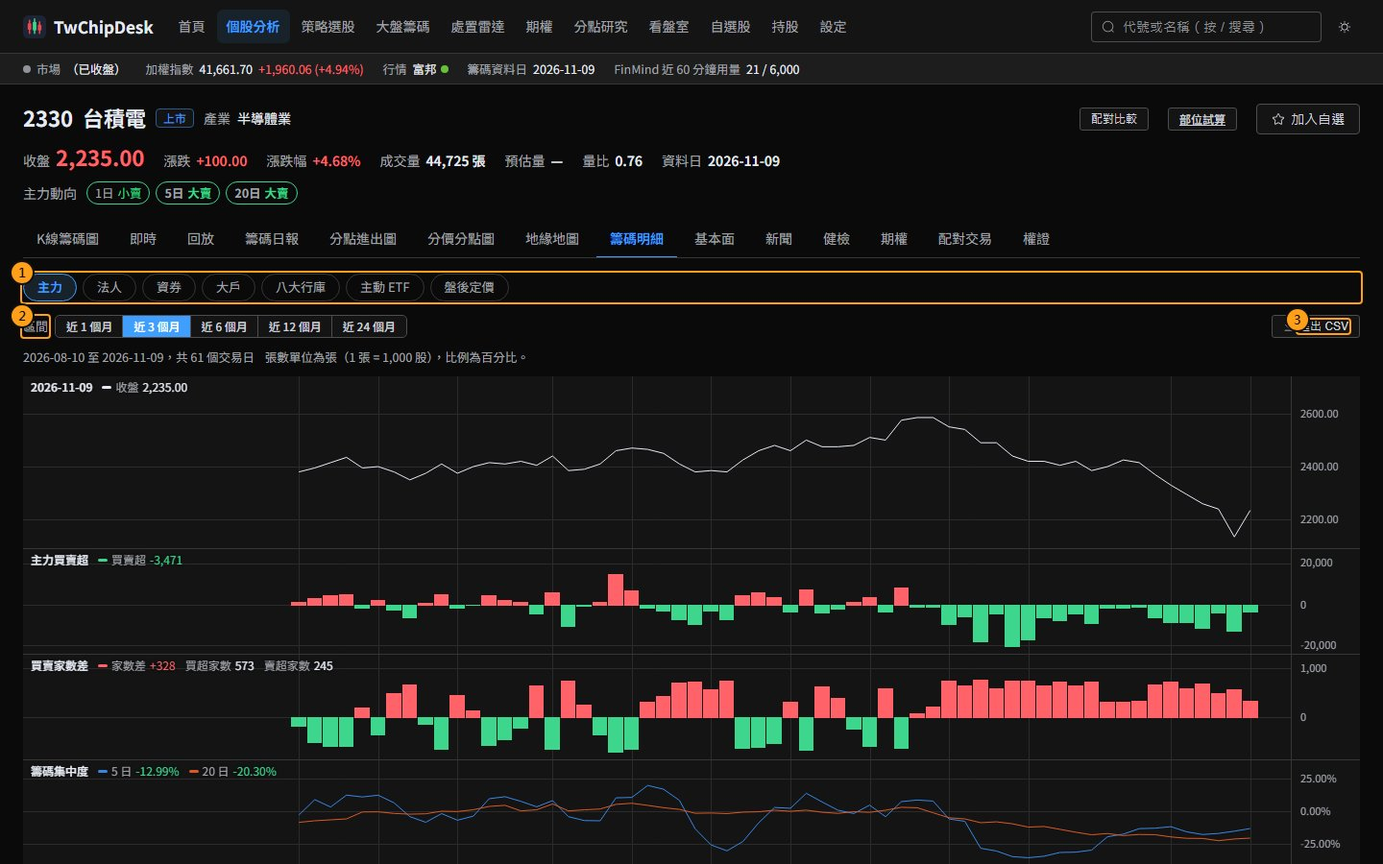
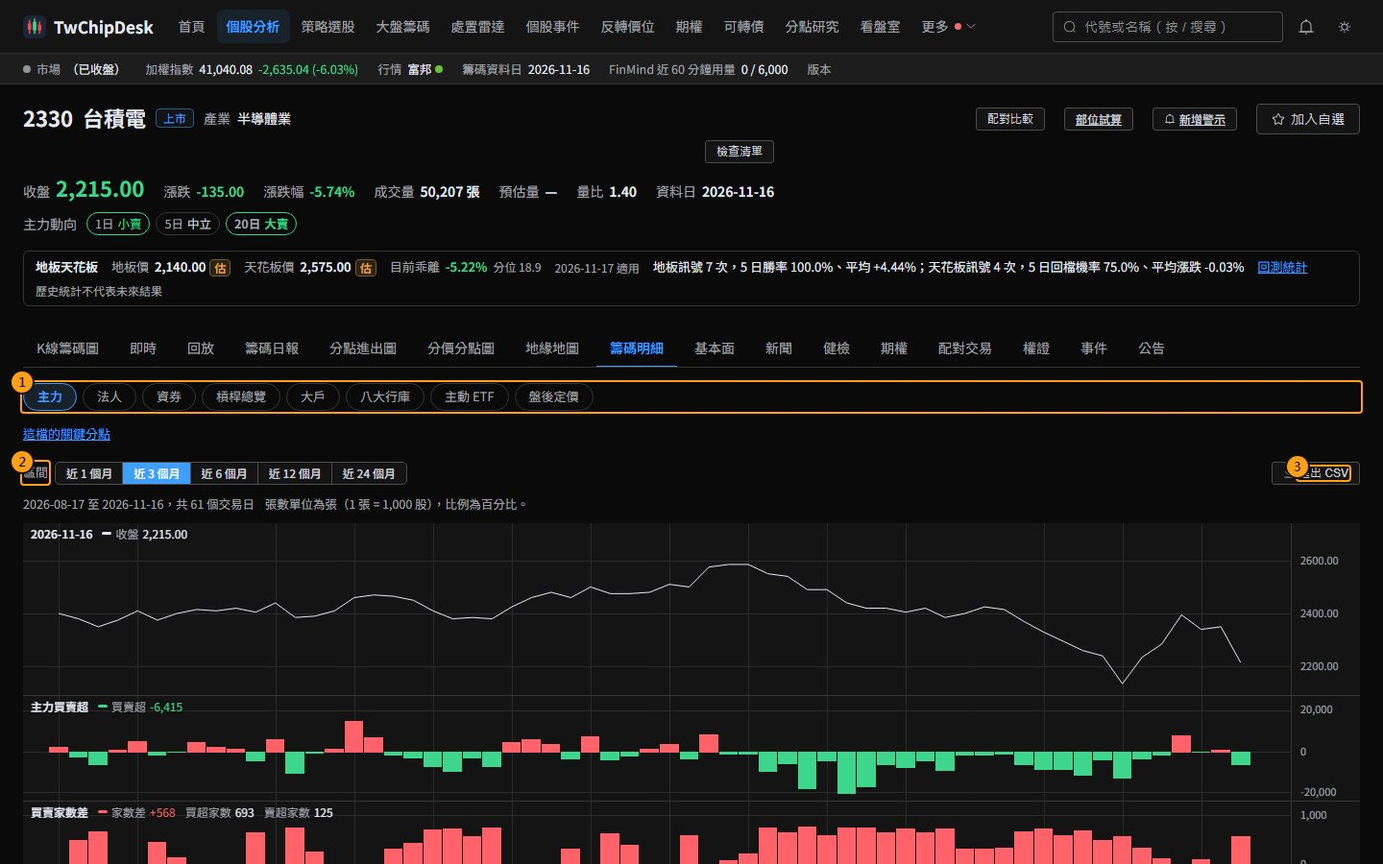
手冊同步：月營收季與年檢視、最近看過、記住篩選、現成資料五項與相關截圖

diff --git a/docs/stock/detail.md b/docs/stock/detail.md
@@ -19,9 +19,9 @@
 圖表上方第一列是收盤價，下面依子分頁畫出各項數字；滑鼠移到圖上查看當天數值。圖表右下角的按鈕與 Alt + R 可重設圖表視圖。
 
 ## 各子分頁內容
-- **主力**：主力買賣超、買賣家數差（買超分點數、賣超分點數）、籌碼集中度（5 日、20 日）、散戶買賣超、中實戶買賣超；下方另有「鉅額交易（分點資料不含）」區塊，列出區間內的鉅額成交與分點。
+- **主力**：主力買賣超、買賣家數差（買超分點數、賣超分點數）、籌碼集中度（5 日、20 日）、散戶買賣超、中實戶買賣超；下方另有「鉅額交易（分點資料不含）」區塊，列出區間內的鉅額成交與分點。上方的「這檔的關鍵分點」開啟[分點研究｜關鍵分點](../brokers/key.md)並只列這檔股票。
 - **法人**：外資、投信、自營商（自行買賣、避險、合計、避險比、避險淨買占比）的買入、售出、買賣超，三大法人合計、外資持股比例，以及外資、投信、自營商的連買連賣天數。
-- **資券**：融資、融券的「買進」「賣出」「現償」、餘額、增減、使用率，券資比、資券互抵、「借券賣出」、當沖量與當沖比、融資維持率；另有借券成交（張數與費率）、不限用途借貸、證券商有價證券融資、當沖券差借券等延伸資料。
+- **資券**：融資、融券的「買進」「賣出」「現償」、餘額、增減、使用率，券資比、資券互抵、「借券賣出」、當沖量與當沖比、融資維持率；另有借券成交（張數與費率）、不限用途借貸、「證金擔保放款」（餘額、增減、「次日限額」，緊接在不限用途借貸之後）、證券商有價證券融資、當沖券差借券等延伸資料。表格下方是「借券成交明細」，見下方「借券成交明細」一節。
 - **槓桿總覽**：融資、融券、借券賣、當沖、股票期貨、權證（估）與券源各一張卡，見下方「槓桿總覽」一節。
 - **大戶**：每週一筆。大戶（門檻以上）、散戶（門檻以下）的持股比例、週變化與人數，總股東人數與平均持股張數。可切換「大戶門檻」「散戶門檻」，開啟「顯示各級距人數與持股比例」看各級距明細。
 - **八大行庫**：各行庫的買賣超與合計、合計金額。
@@ -78,12 +78,19 @@
 
 沒有資料與關閉時：
 - 某個區塊沒有資料時卡片顯示「沒有資料」；整頁都沒有資料時顯示「這檔股票沒有資券、借券、期貨或權證資料」。
-- 期權模組關閉時「股票期貨」卡、權證功能關閉時「權證（估）」卡顯示「此功能已關閉」，其他卡片照常。
+- 期權模組關閉時「股票期貨」卡、權證功能關閉時「權證（估）」卡顯示「此功能已關閉」，並寫出要開啟的開關（設定頁「期權」區塊的 Derivatives:Enabled、「籌碼參數」區塊的 Warrant:Enabled），「前往設定」直接跳到該區塊；其他卡片照常。
 - 這個子分頁不匯出 CSV；逐日數字可在「資券」子分頁匯出。
 
 ![籌碼明細（槓桿總覽，手機）](../images/stock/detail-leverage-mobile.jpg)
 
 手機上卡片排成一欄，每張卡的指標以名稱與數值兩欄排列，股票期貨的商品改成每個商品一小段，不需要左右捲動。
+
+### 借券成交明細
+「資券」子分頁表格下方的「借券成交明細」：
+
+- **「未來 60 天到期張數（估）」**：把借券成交依成交時約定的「原始還券日」依週（週一起）加總，只算還券日在今天之後、60 天以內的成交，每週一條橫條（最長的一週為滿格）。只是約定的日期，實際可能提前還券或被出借人召回，續借、轉借也看不到，所以標「估」，不等於實際的還券量。下方寫明涵蓋比例：近 400 天的借券成交中，有幾筆有原始還券日（來源沒有這個欄位的成交不計入到期分布）。
+- **借券成交表**：區間內每一筆借券成交，由新到舊：日期、「成交方式」（議借、競價、定價，照來源原文）、「張數」、「費率（%）」、「原始還券日」、「借券天數」（成交時約定的天數）。來源沒有原始還券日或借券天數時顯示「—」。區間內超過 1,000 筆時只列最近 1,000 筆並註明。
+- 「匯出 CSV」只匯出上方的資券表，不含這張表。
 
 ## 操作步驟
 1. 點子分頁切換資料類別。
@@ -97,12 +104,14 @@
 - **扣除申贖（估）**：主動 ETF 持股增減扣掉申購買回造成的部分，是估計值；無法估計申贖比例的 ETF 不列入合計並註明。
 - **股數事件**：比較期間內有分割、反分割、面額變更、配股或減資的日子，增減含這些事件造成的股數變動（未換算）。
 - **當沖券差借券費率**：同一天有多個費率級距時以股數加權平均。
+- **證金擔保放款**：證券金融事業以有價證券為擔保的放款（FinMind 的借貸與擔保品餘額資料集）；「餘額」「增減」「次日限額」的單位是張，與不限用途借貸同一個來源與更新時間。當天全市場已有資料但這檔沒有列時為 0，還沒有資料時為「—」。
 
 ## 注意事項與限制
 - 法人、資券在每個交易日盤後更新；股權分散每週更新一次。剛開始回補時可能還沒有資料，回補進度可在「資料狀態」頁查看。
 - 八大行庫尚未發布或沒有回補的日子顯示「—」。
 - 槓桿總覽的各區塊更新時間不同，請以每張卡右上角的資料日為準。
 - 主動 ETF 持股資料從 2025-05-05 起；功能關閉時顯示說明，可在設定頁「籌碼參數」開啟。不是上市櫃股票時沒有主動 ETF 資料。
+- 同一個資料集另有「交割款項融資」，但目前所有股票的餘額都是 0，所以不顯示；槓桿總覽的「不限用途借貸」只列不限用途借貸一類，沒有把各類借貸加總。
 
 ## 相關功能
 - [K線籌碼圖](kline.md)

diff --git a/docs/stock/README.md b/docs/stock/README.md
@@ -12,7 +12,7 @@
 
 | 編號 | 名稱 | 說明 |
 |---|---|---|
-| 1 | 搜尋框 | 輸入股票或分點的代號、名稱，下拉清單分「股票」「分點」兩組。按 `/` 可直接把游標移到搜尋框；上下鍵選擇、Enter 進入、Esc 關閉。 |
+| 1 | 搜尋框 | 輸入股票或分點的代號、名稱，下拉清單分「股票」「分點」兩組。按 `/` 可直接把游標移到搜尋框；上下鍵選擇、Enter 進入、Esc 關閉。還沒輸入文字時列出「最近看過」的股票（最多 10 檔，新的在前），最後一列「清除紀錄」。 |
 | 2 | 代號與名稱 | 目前的股票。已下市的股票另外標「已下市（日期）」或「已下市或停止交易」。 |
 | 3 | 市場 | 「上市」「上櫃」「興櫃」；ETF 等非普通股另外標類型。 |
 | 4 | 產業 | 官方產業分類。 |
@@ -35,6 +35,7 @@
 
 其他進入方式：
 - 點頂部選單「個股分析」會開啟最後瀏覽的那一檔。
+- 點搜尋框但先不輸入文字，會列出「最近看過」的股票（最多 10 檔），點選或用上下鍵加 Enter 進入；紀錄只存在這台電腦的瀏覽器，手機和電腦各自記錄，選最後一列「清除紀錄」可以清空。
 - 各頁的股票代號或名稱大多可以點，點了會進入個股頁。
 - 左側自選欄點股票，同樣保留目前的分頁。
 
@@ -47,7 +48,7 @@
 3. 清單下方可以輸入名稱建立新群組，建立後這檔會一起加入。
 
 ### 處置徽章
-股票正在處置、即將處置或可能被處置時，產業旁邊會出現處置徽章，例如「處置中 7/7」（第 7 天，共 7 天）、「明天起處置」「今晚處置」「明日處置 x% 估」或「注意 n 次」。沒有任何狀態時不顯示。點徽章會從右側打開處置面板，列出注意與處置的計數、觸發價與歷次紀錄（說明見[處置雷達](../disposition/README.md)）。
+股票正在處置、即將處置或可能被處置時，產業旁邊會出現處置徽章，例如「處置中 7/7」（第 7 天，共 7 天）、「明天起處置」「今晚處置」「明日處置 x% 估」或「注意 n 次」。沒有任何狀態時不顯示。點徽章會從右側打開處置面板，列出注意與處置的計數、觸發價與歷次紀錄（說明見[處置雷達](../disposition/README.md)）；面板最下方的「這檔的處置統計」開啟[處置統計](../disposition/stats.md)的個股模式。
 
 ![處置徽章](../images/stock/stock-disposition-badge.jpg)
 
@@ -87,7 +88,7 @@
 | –「沒有資料」 | 這檔股票沒有這項資料（例如沒有融資融券、沒有發行股數），不是「未成立」。 |
 | ⊘「來源未開啟」 | 法說會與股東會需要設定頁「補充來源」區塊的「官方開放資料事件來源」，關閉時這兩項寫「官方開放資料來源未開啟，可在設定頁的『補充來源』開啟」。處置雷達關閉時，處置與注意兩項也是「來源未開啟」。 |
 
-- **內容**：期間或事件日、「n 日後」；資券與流動性類同時列出數值（百分比與「資券」子分頁同樣兩位小數）、固定門檻與「近一年分位」（這個數字在這檔股票近一年每天的數字中排第幾百分位；不足 20 天寫「資料不足」）。是否成立只看固定門檻（設定頁「檢查清單」區塊可改），分位只是參考。停券原因、法說會地點等官方原文照原樣列出。
+- **內容**：期間或事件日、「n 日後」；資券與流動性類同時列出數值（百分比與「資券」子分頁同樣兩位小數）、固定門檻與「近一年分位」（這個數字在這檔股票近一年每天的數字中排第幾百分位；不足 20 天寫「資料不足」）。是否成立只看固定門檻（設定頁「檢查清單」區塊可改），分位只是參考。停券原因、法說會地點等官方原文照原樣列出。股東會另列官方公告的「停止過戶 MM/DD～MM/DD」與「電子投票：」原文（來源沒有時不列；頁首標籤不列，只在清單裡）。
 - **資料日**：這一項資料所屬的日期，不會晚於判定日；事件日寫在內容裡。FinMind 的暫停交易、停券、除權息、減資類沒有抓取日，資料日寫「—」；法說會、股東會是公告日。資券類的資料日比預期舊時標「資料較舊」；處置雷達的資料停在更早的交易日時，處置與注意也標「資料較舊」，沒有成立的紀錄時寫「沒有資料」而不是「未成立」。
 - **來源**：「處置雷達」「FinMind」「官方開放資料」「本系統計算」。
 - **連結**：處置與注意打開處置面板；停止融券、暫停先賣後買當沖與資券類開啟[籌碼明細](detail.md)的「資券」子分頁；事件類開啟[事件](events.md)分頁；20 日均量開啟 [K線籌碼圖](kline.md)。

diff --git a/docs/stock/kline.md b/docs/stock/kline.md
@@ -23,7 +23,7 @@
 | 9 | 型態 | 技術型態（K 線型態、缺口、島狀反轉、圖形型態、指標背離）的開關。只在日 K。 |
 | 10 | 選取區間 | 按下後在主圖拖曳選起訖日，主力面板改算這段自訂區間。只在日 K。 |
 | 11 | 繪圖工具列 | 趨勢線、水平線、通道、斐波那契、測量、文字等繪圖工具。 |
-| 12 | 主圖浮動資訊列 | 十字線所在那一根的開高低收、漲跌、量、各均線與扣抵值；有事件或型態時列出名稱。 |
+| 12 | 主圖浮動資訊列 | 十字線所在那一根的開高低收、漲跌、量、「筆數」「每筆均張」（日、週、月 K）、各均線與扣抵值；有事件或型態時列出名稱。 |
 | 13 | 副圖 | 每個副圖左上角是名稱與十字線所在那一根的數值。 |
 | 14 | 主力面板 | 統計期間的主力摘要與前 15 名分點，見「主力面板」。 |
 
@@ -91,7 +91,7 @@
 
 | 群組 | 副圖 |
 |---|---|
-| 價量 | 成交量 |
+| 價量 | 成交量、每筆均張 |
 | 技術 | KD、MACD、RSI、乖離率 |
 | 主力 | 主力買賣超、買賣家數差、籌碼集中度（5 日、20 日、60 日）、散戶買賣超（估）、中實戶買賣超、籌碼峰獲利比例（估） |
 | 分點 | 地緣分點買賣超、隔日沖分點買超占比、分點買賣超、權證投資人約當淨買（估）、權證買超前 5 分點合計（估）、權證隔日沖買超（估） |
@@ -102,6 +102,7 @@
 | 期權 | 期現價差、權證投資人淨買（估） |
 
 - 選單裡標「尚未提供」的副圖（目前是「月營收與年增率」）目前不能加入。
+- 「每筆均張」副圖：一條線畫每根 K 棒的每筆均張，浮動資訊列另列「筆數」。週、月 K 是期間總量 ÷ 期間總筆數；這段期間有任一天沒有筆數時那一根留空。分 K 沒有成交筆數，不提供這個副圖。
 - 「期現價差」只在這檔有股票期貨時可用，其他股票標「這檔股票不適用」。
 - 「地緣分點買賣超」需要在設定頁啟用公司基本資料外掛，且公司有座標。
 - 加入「大戶持股比例」或「散戶持股比例」時，工具列多出「大戶門檻」「散戶門檻」選擇（大戶預設 400 張，可選 400、600、800、1,000 張；散戶預設 100 張）。門檻與籌碼明細的大戶分頁共用。
@@ -214,7 +215,7 @@
 3. 盤中每 15 秒更新最後幾根。
 4. 點「日」「週」「月」回到日資料。
 
-分 K 不適用：籌碼副圖（標「分 K 不適用」）、事件標記（含公告標記）、注意／處置、成本線、選取區間、扣抵、還原（一律原始價格）；主力面板仍為日資料。有跨過、還沒補上的交易日時，畫面下方會列出日期，圖上前後兩天直接相接，可按「補上這幾天」。FinMind 額度不足時會顯示預計恢復時間。
+分 K 不適用：籌碼副圖（標「分 K 不適用」）、「每筆均張」副圖與浮動資訊列的「筆數」「每筆均張」（分 K 沒有成交筆數）、事件標記（含公告標記）、注意／處置、成本線、選取區間、扣抵、還原（一律原始價格）；主力面板仍為日資料。有跨過、還沒補上的交易日時，畫面下方會列出日期，圖上前後兩天直接相接，可按「補上這幾天」。FinMind 額度不足時會顯示預計恢復時間。
 
 ### 主力面板
 ![主力面板](../images/stock/kline-mainforce.jpg)
@@ -249,6 +250,7 @@
 - **平均成本（估）**：各價位依占比加權的平均價位。
 - **90%／70% 成本區間（估）**：把籌碼依價位由低到高排列，去掉最低與最高各 5%（70% 區間為各 15%）後的價位範圍。
 - **集中度 90%／70%（估）**：（區間上緣 − 下緣）÷（上緣 ＋ 下緣）× 100；數字越小代表成本越集中。
+- **筆數、每筆均張**：筆數是當天的成交筆數（FinMind 日 K 的成交筆數）；每筆均張＝成交量（張）÷ 成交筆數，也就是成交股數 ÷ 1,000 ÷ 筆數，代表平均一筆成交幾張。週、月 K 為期間總量 ÷ 期間總筆數。13:40 寫入的暫定日 K 沒有筆數，17:35 正式日 K 入庫前顯示「—」；盤中接上的那一根也顯示「—」。還原價模式用同一天未還原日 K 的筆數。
 - **盤中 K 棒**：盤中在日 K 最後接上今天的 K 棒，量為整股累計（不含零股、鉅額、盤後定價），浮動資訊列標「盤中」；均線與指標以盤中價量即時計算，收盤後以官方日 K 為準。
 - **散戶買賣超（估）**、**權證** 相關副圖為估計值，名稱帶「（估）」。
 

diff --git a/docs/stock/fundamental.md b/docs/stock/fundamental.md
@@ -5,7 +5,7 @@
 > 資料更新：月營收每天 18:30、22:00；財報、股利、除權息結果、減資與分割等交易日 19:00；本益比、股價淨值比、殖利率交易日 18:05；市值與外資持股 21:05～23:35；可轉債交易日 21:30～21:45
 
 ## 這個功能可以做什麼
-集中看一家公司的營運與估值：月營收與年增率、和同族群公司比較營收、財報三表、財務比率、歷年股利與除權息、本益比等估值的歷史位階與河流圖、發行中的可轉債與公司資訊。
+集中看一家公司的營運與估值：月營收與年增率（也可以看季營收、年營收與各年度走勢）、和同族群公司比較營收、財報三表、財務比率、歷年股利與除權息、本益比等估值的歷史位階與河流圖、發行中的可轉債與公司資訊。
 
 ## 畫面說明
 ![基本面（月營收）](../images/stock/fundamental-overview.jpg)
@@ -28,6 +28,14 @@
 - 「營收」等數字仍以每天入庫的月營收資料為準；備註、公布時間與官方核對只是補充說明。公布時間與官方核對同樣需要開啟「官方開放資料事件來源」，從開啟那天起累積，更早的月份都是「—」。
 - 備註也會出現在 [K線籌碼圖](kline.md)「營收公布」標記的浮動資訊與[個股事件](events.md)時間軸的月營收列。
 - 手機寬度時表格可以左右滑動看所有欄位。
+
+區塊上方可以切換「月」「季」「年」「年度走勢」，預設是「月」（上面說的圖表與表格）。選擇記在這台電腦的瀏覽器，下次打開沿用。
+- 「季」：季依曆年計算（1～3 月為第一季，依此類推）。柱狀為季營收、折線為年增率；表格列出最近 12 季的「季別」「季營收」「季增率」（和上一季比）、「年增率」（和去年同一季比）、「當年累計營收」（當年 1 月加到這一季）與「累計年增率」。
+- 「年」：柱狀為年營收、折線為年增率；表格列出全部年度的「年度」「年營收」「年增率」。
+- 還沒滿三個月的最新一季（或還沒滿 12 個月的今年）在期別下方標「累計至 N 月」，柱子顏色較淡：營收只加到第 N 月，年增率和去年同樣的月份比（例如今年 1～10 月對去年 1～10 月），季增率不計算、顯示「—」。不要把這個數字當成整季或整年的營收。
+- 期間中有月份沒有資料時標「缺 N 個月」，柱子顏色較淡：營收只加總有資料的月份，季增率、年增率與累計都不計算、顯示「—」。資料從年中才開始的第一年也算缺月份。
+- 「季」「年」不顯示「可用日」「公布時間」「官方核對」「備註」，這幾欄只在「月」。
+- 「年度走勢」：一張折線圖，橫軸是 1～12 月，每一年一條線，預設顯示最近 5 個年度（最新年度是粗線）。點圖例的年份可以顯示或隱藏該年度。上方切換「單月營收」或「累計營收」（當年 1 月加到該月；那一年有月份沒有資料時不畫）。滑鼠移到圖上（手機點一下）列出各年度該月的數值與年增率（「累計營收」時是累計年增率）。
 
 ### 營收比較
 依最新月營收列出同族群規模最大的公司：最新月份、營收、年增率與「近 12 個月年增率」走勢（中線為 0%）。
@@ -81,6 +89,8 @@
 
 ### 公司資訊
 產業、市場別、產業鏈、族群、發行股數、市值、外資持股比例與地址（地址需要啟用公司基本資料外掛）。
+
+在指數權重表裡的股票另有一行「加權指數權重」（上櫃股票是「櫃買指數權重」），例如「第 3 名 2.35%（資料日 2026-10-30）」：這檔在所屬市場指數的官方排名與權重，以及那份權重的資料日。上市的官方權重只有每月最後一個交易日一份，所以月中看到的是上個月底的資料；上櫃每個交易日都有。不在該市場最新一天權重表的股票（沒有資料或已不在成分中）不顯示這一行。點排名與權重會開啟[大盤籌碼｜權值股](../market/index-weight.md)，切到這檔所屬的市場、顯示全部成分股並標示這一檔；權值股頁的權重是依股價調整的估計值，和這裡的官方權重不一定相同。
 
 ## 欄位與名詞
 - **可用日**：資料入庫日；休市日入庫的算進前一個交易日。回溯與回測只使用可用日不晚於當天的資料。

diff --git a/docs/stock/events.md b/docs/stock/events.md
@@ -14,7 +14,7 @@
 |---|---|---|
 | 1 | 「區間」「成本」「報酬」 | 與[事件行事曆](../events/calendar.md)相同；換了以後時間軸的「區間淨報酬」與統計卡一起更新。 |
 | 2 | 連結 | 「K 線事件標記」（K線籌碼圖，事件標記在圖上）、「權證（N 檔）」（權證分頁）、股期（有股票期貨時，開啟期現套利的除息以期代現）、「個股事件頁」。 |
-| 3 | 「事件時間軸」 | 新到舊；未來事件標「未來」，推算的日期標「估」；過去事件列出所選區間的淨報酬，或沒有計入的原因（例如結構事件剔除、尚未到出場日）。月營收與財報另列公布時間與「來源：」（「官方」「FinMind 入庫日」或「估」），數值或日期待確認時加「待核對」。月營收有官方備註時，在說明後面另列「備註：」與公司填寫的原文（與[基本面](fundamental.md)月營收表格的「備註」相同；只是顯示，不影響統計）。法說會、股東會、庫藏股決議的子資訊與[事件行事曆](../events/calendar.md#欄位)相同，滑鼠移上去（手機點一下）看地點全文、擇要訊息或買回目的。 |
+| 3 | 「事件時間軸」 | 新到舊；未來事件標「未來」，推算的日期標「估」；過去事件列出所選區間的淨報酬，或沒有計入的原因（例如結構事件剔除、尚未到出場日）。月營收與財報另列公布時間與「來源：」（「官方」「FinMind 入庫日」或「估」），數值或日期待確認時加「待核對」。月營收有官方備註時，在說明後面另列「備註：」與公司填寫的原文（與[基本面](fundamental.md)月營收表格的「備註」相同；只是顯示，不影響統計）。法說會、股東會、庫藏股決議的子資訊與[事件行事曆](../events/calendar.md#欄位)相同（股東會含「停止過戶 MM/DD～MM/DD」與「電子投票：」原文，來源沒有時不顯示），滑鼠移上去（手機點一下）看地點全文、擇要訊息或買回目的。 |
 | 4 | 「各種事件的歷史統計」 | 這檔有樣本的每種事件一張卡：摘要、最近 3 年與更早、逐日表（T−5～T+5）、平均路徑（T−10～T+20，P25～P75 帶狀）。N 少於 5 標「樣本少」。法說會、股東會、庫藏股決議的卡片註明「資料自 YYYY-MM-DD 起累積」；法說會與股東會另列「最近 5 次」的日期、時間、常會或臨時會與地點（沒有地點時寫「地點未公布」）。時間軸上有這三種事件但還沒有可統計的樣本時，卡片寫「還沒有可統計的樣本」。 |
 | 5 | 「歷年除權息」 | 除權息日、種類、現金與股票股利、除權息前收盤、參考價（進位到升降單位、開盤與收盤對參考價用的值；滑過顯示未進位的理論參考價）、權值率、息值率、開盤與收盤對參考價、填權息天數（未填顯示「未填」）。 |
 

diff --git a/docs/alerts/README.md b/docs/alerts/README.md
@@ -16,7 +16,7 @@
 |---|---|---|
 | 1 | 鈴鐺 | 在每一頁的右上角，紅色數字為未讀的觸發則數（超過 99 顯示「99+」）。點一下開啟警示中心。 |
 | 2 | 頁面分頁 | 「規則」「觸發紀錄」「設定」。 |
-| 3 | 「新增規則」 | 開啟新增表單；旁邊顯示目前的規則數與上限（100 條）。 |
+| 3 | 「新增規則」 | 開啟新增表單；旁邊顯示目前的規則數與上限（100 條）。有規則時另有搜尋框（「搜尋名稱、條件或股票代號」），依名稱、範圍與條件的文字或指定股票的代號篩選清單，不分大小寫；沒有符合時顯示說明。 |
 | 4 | 規則清單 | 每條規則的「啟用」開關、「名稱」「範圍」「條件」「時段」（下方是冷卻）、「今天」觸發次數（點次數開啟這條規則今天的觸發紀錄）、「最近觸發」時間，以及「編輯」「重設今天」「刪除」。 |
 
 按「刪除」會先開確認框，裡面有「一併刪除這條規則的紀錄（N 筆）」可以勾選（N 是這條規則目前所有日期的紀錄筆數；沒有紀錄時不能勾選）。不勾選時規則刪除、紀錄保留；勾選時規則與它的紀錄一起刪除，無法復原。
@@ -73,7 +73,7 @@
 |---|---|---|
 | 1 | 「類別」 | 勾「全部類別」或勾選其中幾類；勾滿 15 類等於全部類別，之後新增的類別也自動包含。 |
 | 2 | 「含更正與補充公告」 | 取消勾選時，主旨含「更正」或「補充」的公告不提示。 |
-| 3 | 說明 | 評估時機與「官方每天提供前一天的公告」的限制。官方開放資料事件來源尚未開啟時多一行「官方開放資料事件來源尚未開啟，這條規則不會觸發。」與「前往設定」；規則照樣可以建立。 |
+| 3 | 說明 | 評估時機與「官方每天提供前一天的公告」的限制。官方開放資料事件來源尚未開啟時多一行「官方開放資料事件來源尚未開啟（設定頁「補充來源」區塊的「官方開放資料事件來源」），這條規則不會觸發。」與「前往設定」（直接跳到該區塊）；規則照樣可以建立。 |
 
 ## 觸發紀錄
 

diff --git a/docs/brokers/key.md b/docs/brokers/key.md
@@ -21,7 +21,7 @@
 | 3 | 「整批匯入」 | 貼上清單一次新增多筆。 |
 | 4 | 「統計天數」 | 1、3、5、10、20、60 日（交易日），預設 1 日。 |
 | 5 | 「自訂」 | 輸入 1～240 的任意天數。 |
-| 6 | 搜尋框 | 依股票或分點的代號、名稱篩選表格（分點代號區分大小寫）。 |
+| 6 | 搜尋框 | 依股票或分點的代號、名稱篩選表格（分點代號區分大小寫）。旁邊的「恢復預設條件」把統計天數改回 1 日，並清除搜尋與「只看」。 |
 | 7 | 期間與組數 | 實際起訖日、交易日數，以及「顯示組數／全部組數」。切換天數時舊資料仍顯示，起訖日後面會出現「（更新中）」。 |
 | 8 | 展開按鈕 | 展開這組的逐日明細（見下圖）。 |
 | 9 | 「刪除」 | 刪除這組關鍵分點，會先跳出確認視窗。 |
@@ -48,9 +48,10 @@
 4. 確認無誤後按「確認匯入（新增 N 組）」。一次最多 2,000 列；預覽後修改文字會清掉舊的預覽。
 
 ### 查看與篩選
-1. 選「統計天數」或在「自訂」輸入天數；天數存在網址（`?days=5`）。
+1. 選「統計天數」或在「自訂」輸入天數；天數存在網址（`?days=5`），也記在這台電腦的瀏覽器：下次直接開 `/brokers/key` 時沿用上次的天數，網址有帶天數時以網址為準。
 2. 在搜尋框輸入股票或分點的代號、名稱篩選。
 3. 點欄名排序，例如依「買賣超佔成交量」找出比重最大的組合。
+4. 從個股頁「籌碼明細」的「主力」分頁點「這檔的關鍵分點」，會開啟 `/brokers/key?stock=代號`，只列這檔股票的關鍵分點，上方顯示「只看 代號」；按「看全部股票」回到全部。這檔還沒有設定關鍵分點時，顯示「代號 還沒有設定關鍵分點，可以按「新增關鍵分點」加入。」
 
 ## 欄位與名詞
 - **買張**、**賣張**、**買賣超**：期間內這個分點在這檔股票的買入、賣掉與淨買賣張數。

diff --git a/docs/getting-started.md b/docs/getting-started.md
@@ -20,7 +20,7 @@ TwChipDesk 是在自己電腦上執行的台股籌碼分析工具。這一頁說
 |---|---|---|
 | 1 | 產品名稱 | 點「TwChipDesk」回到首頁。 |
 | 2 | 頂部選單 | 「首頁」「個股分析」「策略選股」「大盤籌碼」「處置雷達」「個股事件」「反轉價位」「期權」「可轉債」「分點研究」「看盤室」「盤中監控」「當沖監控」「自選股」「持股」「AI 助手」「AI 每日摘要」「設定」。目前所在的項目會反白。「個股分析」會開啟最後看過的股票（第一次為 2330）。「期權」在期權模組關閉時不顯示，「盤中監控」在盤中監控關閉時不顯示。視窗寬度放不下的項目收進最後的「更多」（編號 7）。手機寬度改用底部分頁列，見[手機版](mobile.md)。 |
-| 3 | 搜尋 | 輸入股票或分點的代號、名稱，下拉清單分「股票」「分點」兩組。可用鍵盤：按 `/` 直接跳到搜尋框，上下鍵選擇，Enter 進入，Esc 關閉。已在個股頁時，選另一檔股票會留在同一個分頁、只換股票。 |
+| 3 | 搜尋 | 輸入股票或分點的代號、名稱，下拉清單分「股票」「分點」兩組。可用鍵盤：按 `/` 直接跳到搜尋框，上下鍵選擇，Enter 進入，Esc 關閉。已在個股頁時，選另一檔股票會留在同一個分頁、只換股票。還沒輸入文字時，點一下搜尋框（或按 `/`）會列出「最近看過」的股票（最多 10 檔），最後一列「清除紀錄」可以清空。 |
 | 4 | 主題切換 | 太陽／月亮圖示，切換深色與淺色主題。 |
 | 5 | 市場狀態列 | 市場狀態、加權指數、行情來源、籌碼資料日、FinMind 用量、背景工作與目前版本，詳見下一節。 |
 | 6 | 頁面內容 | 各頁的標題與內容。 |

diff --git a/docs/events/material.md b/docs/events/material.md
@@ -63,6 +63,7 @@
 2. 用「日期」「市場」「範圍」「關鍵字」縮小範圍，或點類別籤只看某幾類。
 3. 點一列看說明原文；按返回鍵或關閉鈕回到清單。
 4. 條件都在網址上，可以把網址存成書籤。
+5. 「市場」「範圍」「群組」與類別籤記在這台電腦的瀏覽器：下次直接開 `/events/material` 時沿用上次的選擇；網址有帶這些條件時以網址為準。日期與關鍵字不記，每次都從最新一天開始。按「恢復預設條件」清除全部條件。
 
 ## 欄位與名詞
 - **發言時間**：公司發布這則重大訊息的時間（台北時間，到秒）。
@@ -78,7 +79,7 @@
 | 自選、持股標記 | 自選股與持股的交易紀錄 | 每次查詢 |
 
 ## 注意事項與限制
-- 外掛「官方開放資料事件來源」關閉時不會累積新的公告；已累積的公告照常顯示。關閉而且還沒有任何公告時，頁面顯示「官方開放資料事件來源尚未開啟，還沒有公告資料。」與「前往設定」。設定見[設定](../settings.md#官方開放資料事件來源)。
+- 外掛「官方開放資料事件來源」關閉時不會累積新的公告；已累積的公告照常顯示。關閉而且還沒有任何公告時，頁面顯示「官方開放資料事件來源尚未開啟，還沒有公告資料。」與「前往設定」（直接跳到設定頁的「補充來源」區塊）。設定見[設定](../settings.md#官方開放資料事件來源)。
 - 開啟之前的公告、主機沒開機那幾天的公告都無法補回；所選範圍內有缺的日子會列在狀態說明。
 - 說明原文保留天數依設定頁「公告內文保留天數」（預設 730 天），超過後只留主旨。
 - 公告原文可能很長；詳細裡可以上下捲動。

diff --git a/docs/cb/arbitrage.md b/docs/cb/arbitrage.md
@@ -63,7 +63,7 @@
 | 「轉換天數」（估） | 資料日的下一個交易日申請轉換、加上設定的轉換天數（預設 4 個交易日），顯示資料日到「預計 YYYY-MM-DD 取得股票」的交易日數；申請日落在停止轉換、暫停轉換期間或閉鎖期時順延到期間結束後的第一個交易日，並標「順延」。轉換期間已結束時顯示「轉換期間已結束」 |
 | 「提前贖回」 | 已公告的提前贖回期間起日與價格，例如「2026-11-19 起（100.00）」 |
 
-預設依價差率由大到小排序；點欄名可改排序（溢價率、融券使用率、轉換天數第一次點為由小到大）。匯出的 CSV 另外附融券餘額、融券限額、融券使用率、借券可借、借券費率、預計可申請轉換日、預計可取得股票日（估）與轉換天數（估）。條件、排序與開啟的明細都會寫進網址，重新整理或分享後還原。
+預設依價差率由大到小排序；點欄名可改排序（溢價率、融券使用率、轉換天數第一次點為由小到大）。匯出的 CSV 另外附融券餘額、融券限額、融券使用率、借券可借、借券費率、預計可申請轉換日、預計可取得股票日（估）與轉換天數（估）。條件、排序與開啟的明細都會寫進網址，重新整理或分享後還原。溢價率上限、可轉換、排除融券暫停、最少成交張數、市場、無成交與排序也記在這台電腦的瀏覽器：下次直接開 `/cb/arbitrage` 時沿用上次的選擇；網址有帶這些條件時以網址為準。資料日、搜尋與明細不記。
 
 ### 狀態旗標
 紅色為目前不能轉換或標的融券暫停，橘色為要留意的事件，灰色為一般說明。

diff --git a/docs/events/calendar.md b/docs/events/calendar.md
@@ -32,7 +32,7 @@
 - **「代號名稱」**：點了開啟這檔的[個股「事件」分頁](../stock/events.md)。
 - **「事件」「子資訊」**：事件種類與內容，例如除息的現金與股票股利、殖利率（以最新收盤估算，標「估」）；月營收的年月、年增、月增、創幾個月新高；處置的第幾次與期間。三種官方來源事件：
   - 「法說會」：開始時間加地點的前 8 個字，例如「14:00 線上法說會」；受邀參加別家舉辦的說明會時前面加「受邀」。滑鼠移上去（手機點一下）看地點全文、擇要訊息與公告時間；時間是推定的時候標「（估）」。
-  - 「股東會」：「常會」或「臨時會」，要改選董監時加「改選董監」；地點在滑過說明。
+  - 「股東會」：「常會」或「臨時會」，要改選董監時加「改選董監」；官方公告有停止過戶期間時加「停止過戶 MM/DD～MM/DD」（只有起日寫「停止過戶 MM/DD 起」），有電子投票欄時加「電子投票：」與公告原文；沒有的段落不顯示。地點在滑過說明。停止過戶期間只是照公告列出，不推算融券最後回補日。
   - 「庫藏股決議」：預定買回數量與占已發行股份比率，例如「預定 2,500 張（3.72%）」（不足 1 張時顯示股數），以及「區間 21～46 元」的買回價格區間（公告只寫一個價格時為「上限 46 元」或「下限 21 元」）；買回目的與預定買回期間在滑過說明。
 - **「公布時間」**：只有月營收與財報有，依來源顯示：
   - 官方有確切時間（例如財報的重大訊息發言時間）：「公布 11/12 14:43」。

diff --git a/docs/screener/library.md b/docs/screener/library.md
@@ -12,14 +12,14 @@
 
 | 編號 | 名稱 | 說明 |
 |---|---|---|
-| 1 | 分類 | 「全部」「多方」「空方」「型態」「排行」「精選」「分點」「即時」，只顯示該分類的策略。 |
+| 1 | 分類 | 「全部」「多方」「空方」「型態」「排行」「精選」「分點」「即時」，只顯示該分類的策略。左邊的搜尋框（「搜尋策略名稱或條件」）依策略名稱、說明或卡片上的條件文字篩選目前分類的卡片，不分大小寫；沒有符合時顯示說明。 |
 | 2 | 策略卡片 | 左上角為分類，接著是策略名稱、說明與逐條條件（例如「籌碼集中度（1 日）大於 10%」）；有範圍設定（只看產業、股價區間等）時另列在條件下方。 |
 | 3 | 「套用」 | 開啟[選股](screener.md)分頁並載入這個策略，立即以最新資料日執行選股。 |
 | 4 | 「複製為我的策略」 | 複製一份到「我的策略」，之後可以自由修改、儲存。 |
 | 5 | 「在實驗室開啟」 | 開啟[策略實驗室](lab.md)並選好這個策略。 |
 
 ## 操作步驟
-1. 點上方分類縮小範圍，閱讀卡片上的條件。
+1. 點上方分類縮小範圍，或在搜尋框輸入名稱、條件的關鍵字（例如「集中度」），閱讀卡片上的條件。
 2. 想看今天的結果，按「套用」。
 3. 想調整門檻，按「複製為我的策略」，再到「策略選股」分頁左側的「我的策略」選它修改；或在選股頁套用後調整，按「另存為我的策略」。
 
